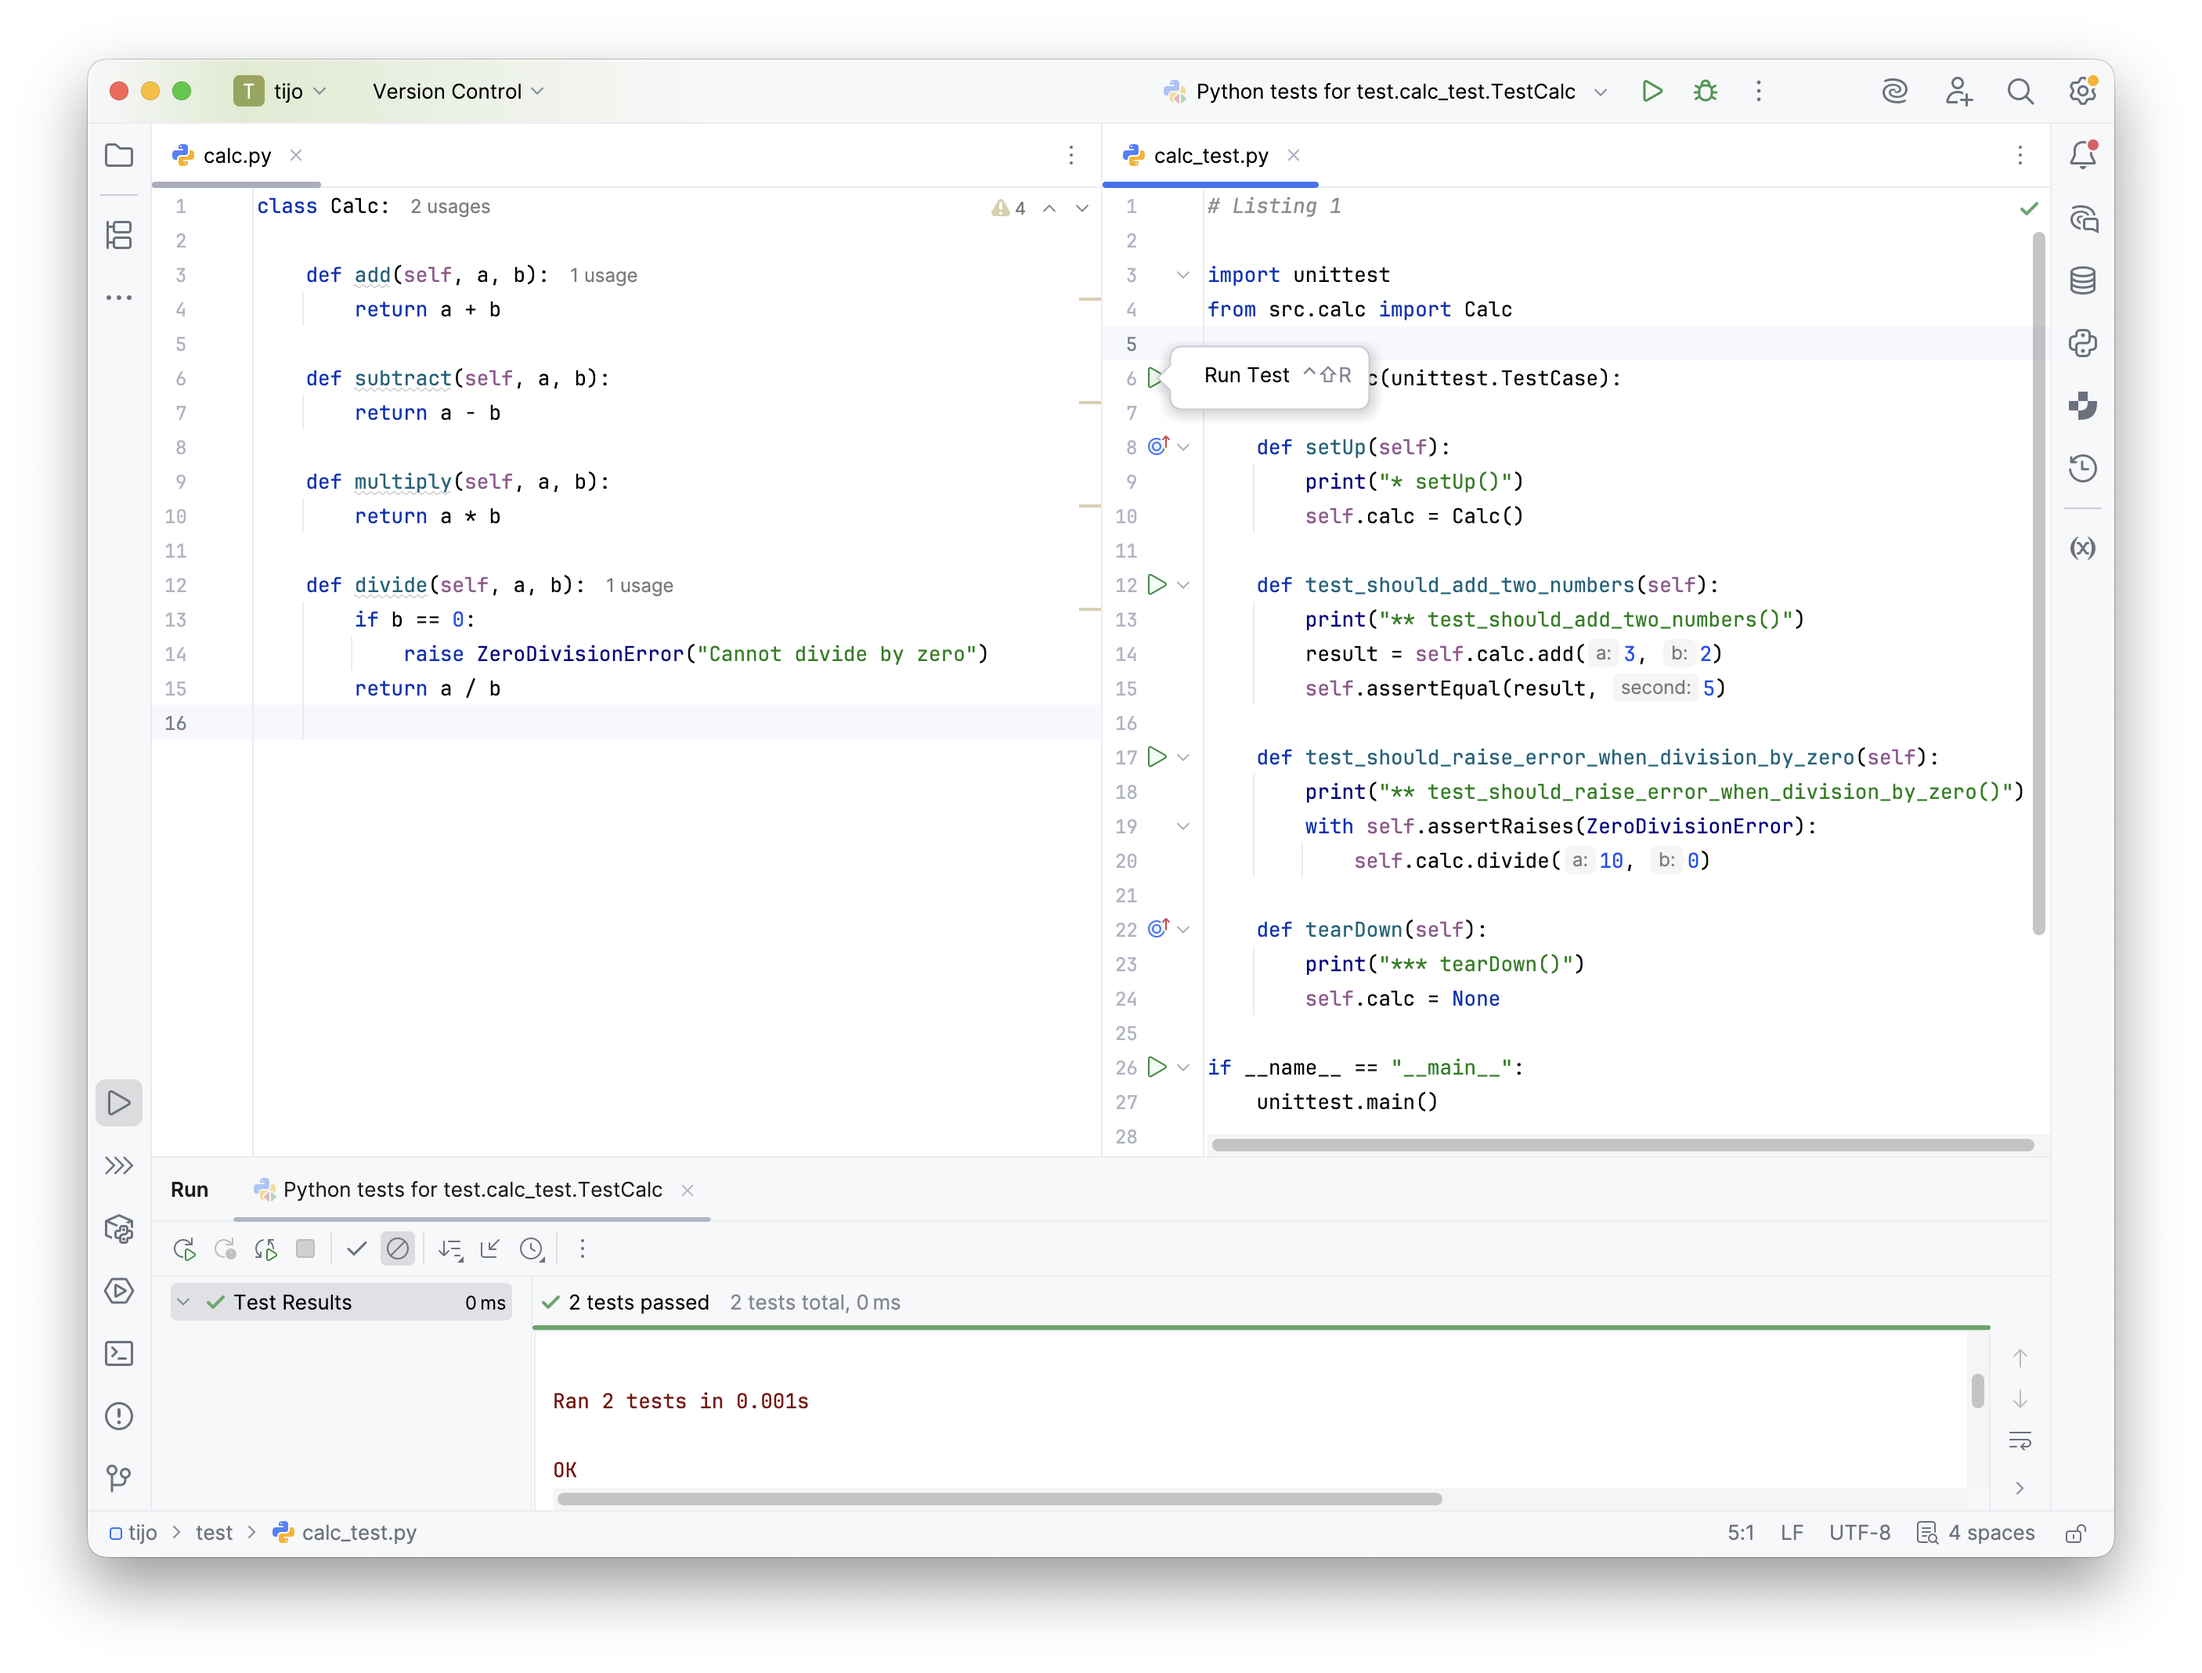
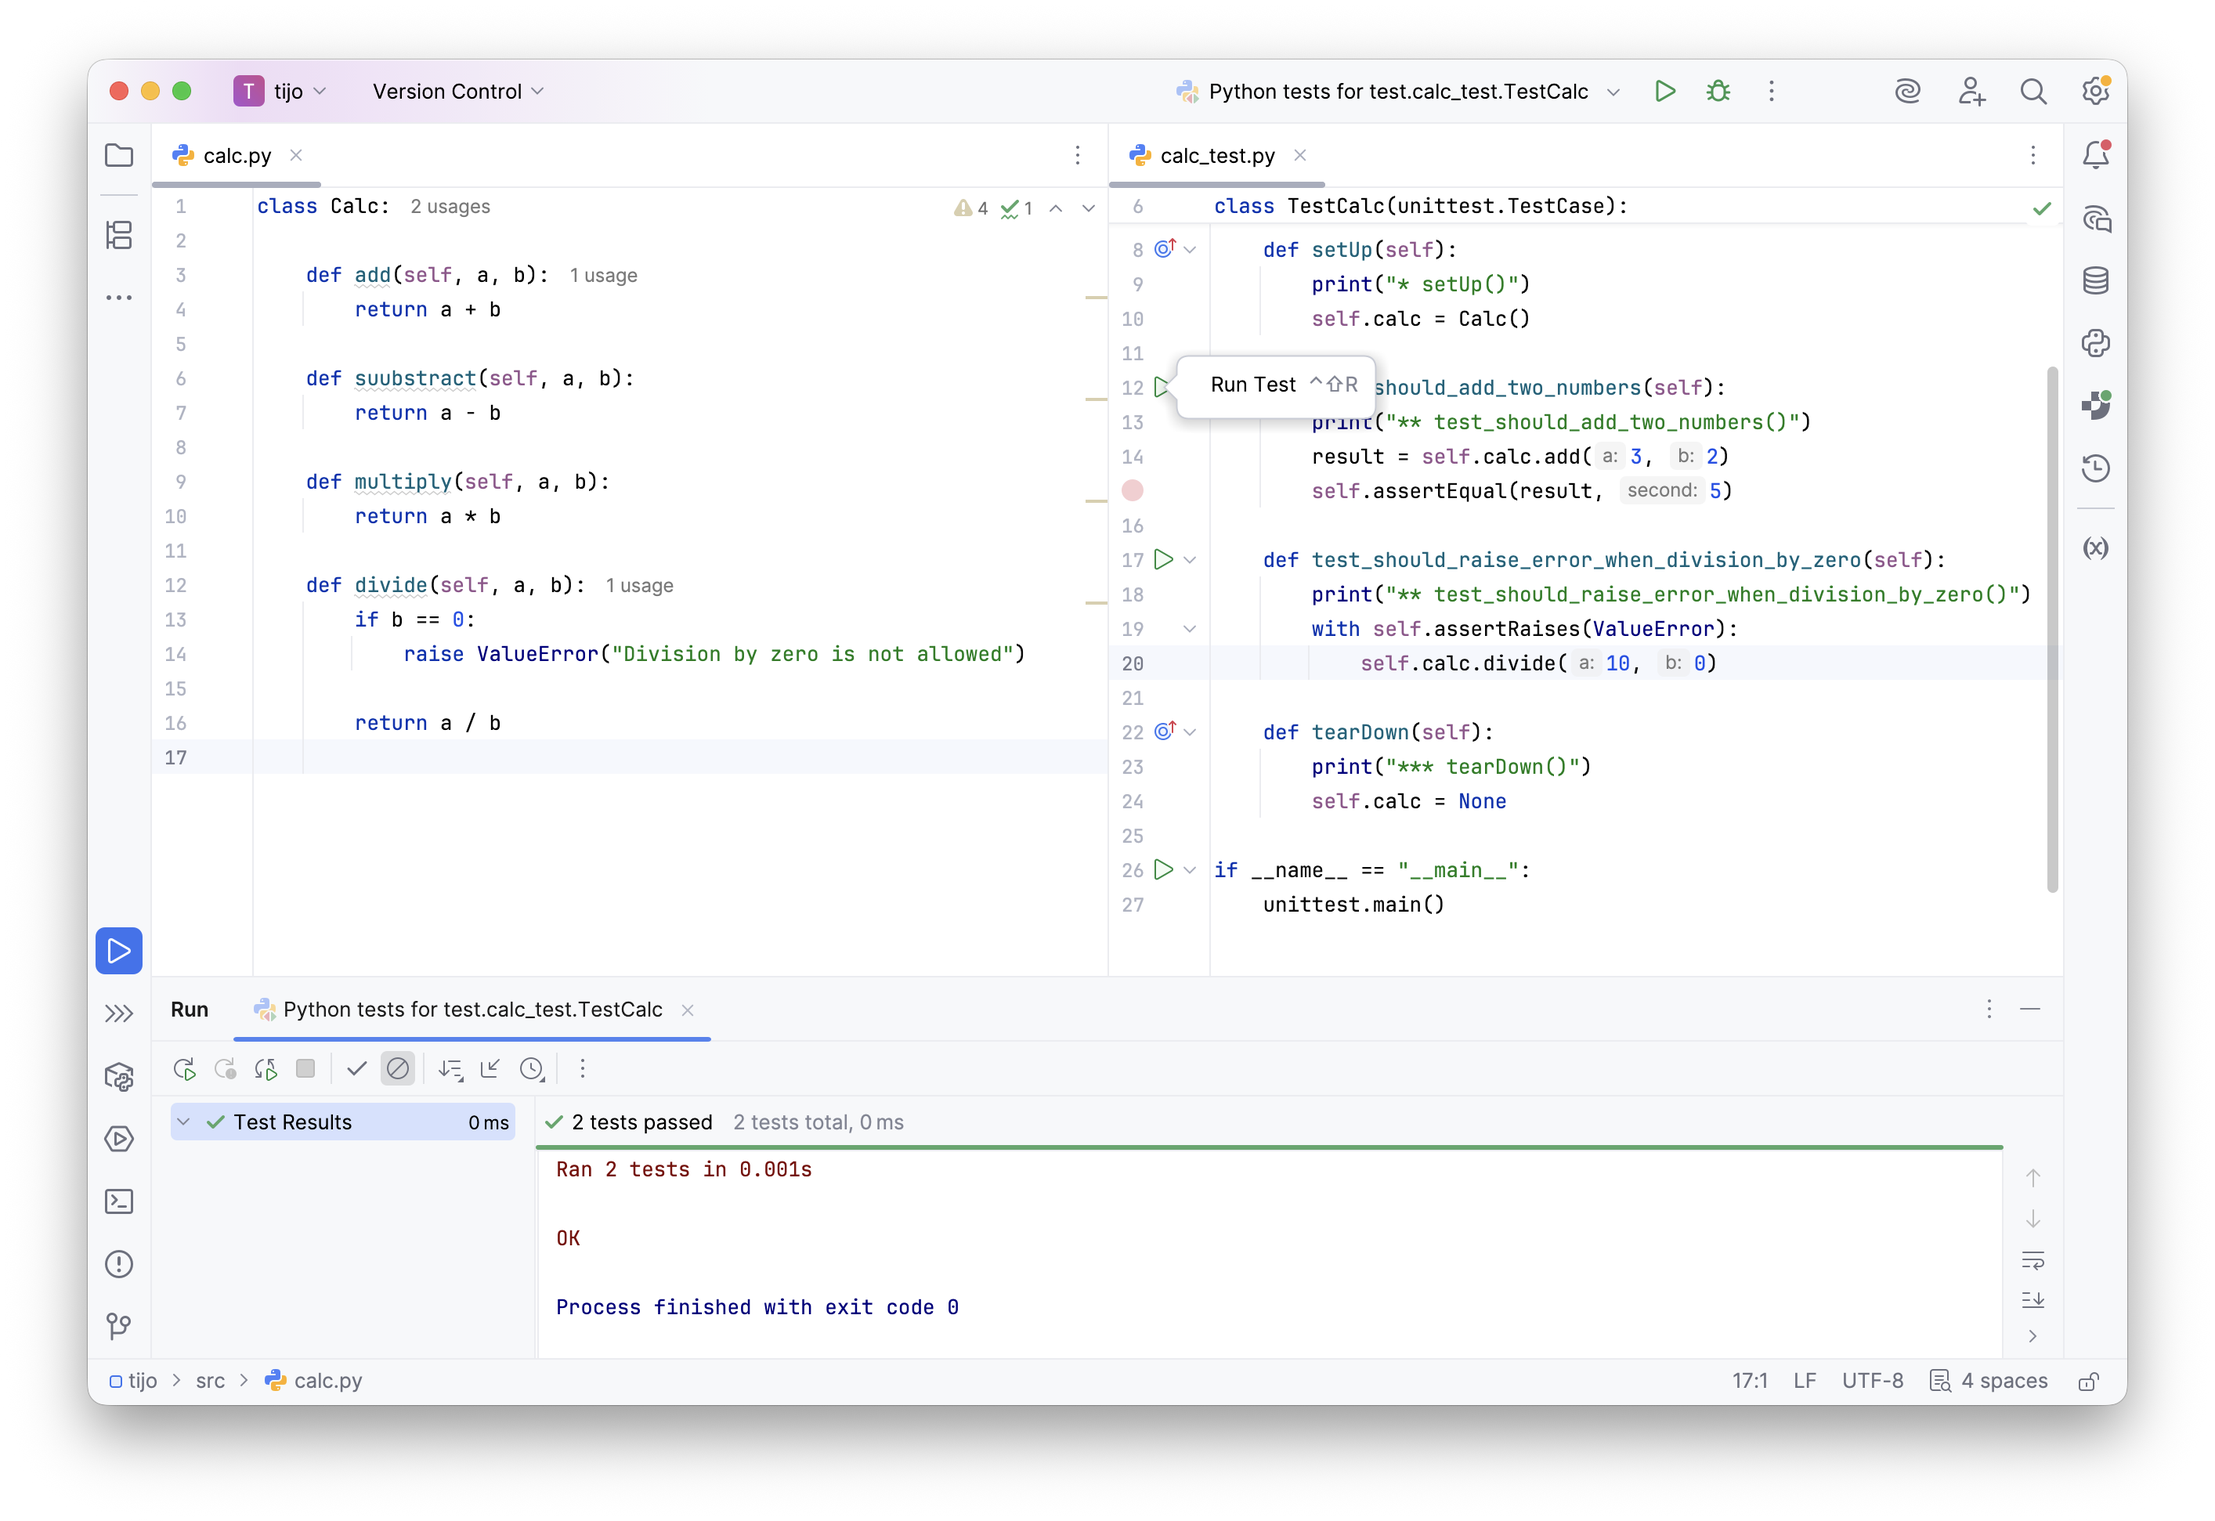
t-gadek, poprawa tijo-lab02 (zmiana typu wyjatku w celach edukacyjnych)

diff --git a/tijo/unittest-framework.html b/tijo/unittest-framework.html
@@ -64,7 +64,7 @@ class TestCalc(unittest.TestCase):
 
     def test_should_raise_error_when_division_by_zero(self):
         print("** test_should_raise_error_when_division_by_zero()")
-        with self.assertRaises(ZeroDivisionError):
+        with self.assertRaises(ValueError):
             self.calc.divide(10, 0)
 
     def tearDown(self):
